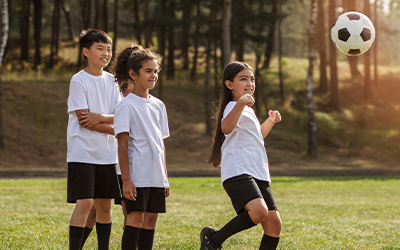
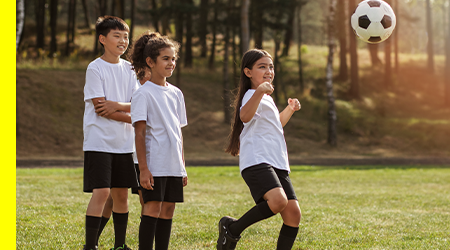
css 25

diff --git a/iniciativas.html b/iniciativas.html
@@ -51,17 +51,65 @@
         </section>
 
         <section id="iniciativas">
+
             <div class="iniciativa">
-        
+
                 <div class="iniciativa-img">
-                    <img src="/image/projeto-futebol-2.png" alt="Foto iniciativa 1">
+                    <img src="/image/projeto-futebol-2.png" alt="projeto-futebol-2">
                 </div>
                 
                 <div class="iniciativa-content">
-                    <h2 style="color: #01b0f3;">Escolhinha de futebol</h2>
-                    <p>Consectetur adipiscing elit. Sed non risus. Suspendisse lectus tortor, dignissim sit amet, adipiscing nec, ultricies sed, dolor. Cras elementum ultrices diam. Maecenas ligula massa, varius a, semper congue, euismod non, mi. Proin porttitor, orci nec nonummy molestie, enim est eleifend mi, non fermentum diam nisl sit amet erat. Duis semper. Duis arcu massa, scelerisque vitae, consequat in, pretium a, enim. Pellentesque congue.</p>
+                    <h2 style="color: #01b0f3;">Escolinha de futebol</h2>
+                    <p>Venha participar da nossa Escolinha de Futebol, promovida pela Associação de Moradores do Bairro! <strong>As aulas são gratuitas e têm como objetivo ensinar às crianças a colaboração, </strong>o trabalho em equipe e a importância da atividade física. Não há custo para os moradores do bairro. Venha se divertir e aprender com a gente!</p>
+                    <br>
+                    <button class="button-1" onclick="window.location.href='cadastro.html'">Cadastre-se</button>
                 </div>
             </div>
+
+            <div class="iniciativa">
+
+                <div class="iniciativa-img">
+                    <img src="/image/projeto-castracao-2.png" alt="Foto iniciativa 1">
+                </div>
+                
+                <div class="iniciativa-content">
+                    <h2 style="color: #01b0f3;">Castração social</h2>
+                    <p>Participe do nosso programa de Castração Social, realizado pela Associação de Moradores do Bairro!<strong> Oferecemos castrações a preços acessíveis para os animais do bairro,</strong> visando controlar a reprodução descontrolada. Ajude a cuidar da saúde e bem-estar dos animais de nossa comunidade!</p>
+                    <br>
+                    <button class="button-1" onclick="window.location.href='cadastro.html'">Cadastre-se</button>
+                </div>
+            </div>
+
+            <div class="iniciativa">
+
+                <div class="iniciativa-img">
+                    <img src="/image/projeto-surf-2.png" alt="Foto iniciativa 1">
+                </div>
+                
+                <div class="iniciativa-content">
+                    <h2 style="color: #01b0f3;">Surf para todos</h2>
+                    <p>Venha participar do nosso programa de Surf para Todos, promovido pela Associação de Moradores do Bairro!<strong> As aulas são gratuitas e abertas a todas as idades,</strong> com o objetivo de promover atividades físicas e diversão. Não há custo para os moradores do bairro. Venha aprender a surfar e aproveitar o mar conosco!</p>
+                    <br>
+                    <button class="button-1" onclick="window.location.href='cadastro.html'">Cadastre-se</button>
+                </div>
+            </div>
+
+            
+            <div class="iniciativa">
+
+                <div class="iniciativa-img">
+                    <img src="/image/projeto-yoga-2.png" alt="Foto iniciativa 1">
+                </div>
+                
+                <div class="iniciativa-content">
+                    <h2 style="color: #01b0f3;">Yoga na praia</h2>
+                    <p>
+                        Venha participar do nosso programa de Yoga na Praia, promovido pela Associação de Moradores do Bairro! <strong>As aulas são gratuitas e abertas a todas as idades, </strong>com o objetivo de promover atividades físicas e bem-estar. Não há custo para os moradores do bairro. Venha relaxar, exercitar o corpo e a mente conosco!</p>
+                    <br>
+                    <button class="button-1" onclick="window.location.href='cadastro.html'">Cadastre-se</button>
+                </div>
+            </div>
+
         </section>
         
         

diff --git a/index.html b/index.html
@@ -68,7 +68,7 @@
                 <svg xmlns="http://www.w3.org/2000/svg" width="24" height="24" viewBox="0 0 24 24" fill="none" stroke="#01b0f3" stroke-width="2" stroke-linecap="round" stroke-linejoin="round" class="lucide lucide-map"><path d="M14.106 5.553a2 2 0 0 0 1.788 0l3.659-1.83A1 1 0 0 1 21 4.619v12.764a1 1 0 0 1-.553.894l-4.553 2.277a2 2 0 0 1-1.788 0l-4.212-2.106a2 2 0 0 0-1.788 0l-3.659 1.83A1 1 0 0 1 3 19.381V6.618a1 1 0 0 1 .553-.894l4.553-2.277a2 2 0 0 1 1.788 0z"/><path d="M15 5.764v15"/><path d="M9 3.236v15"/></svg>
 
                 <h2>640m²</h2>
-                <p style="font-size: 18px">extensão do bairro<br>anual</p>
+                <p style="font-size: 18px">extensão do bairro<br>atual</p>
             </div>
 
             <div class="sessao-topicos">

diff --git a/style.css b/style.css
@@ -577,15 +577,14 @@ footer img {
 .iniciativa {
     display: flex;
     align-items: center;
-    margin-bottom: 40px;
+    margin-bottom: 100px;
 }
 
 .iniciativa-img {
-    flex: 0 0 700px;
+    flex: 0 0 450px;
     height: 250px;
-    margin-right: 0px;
+    margin-right: 40px;
     overflow: hidden;
-
 }
 
 .iniciativa-img img {
